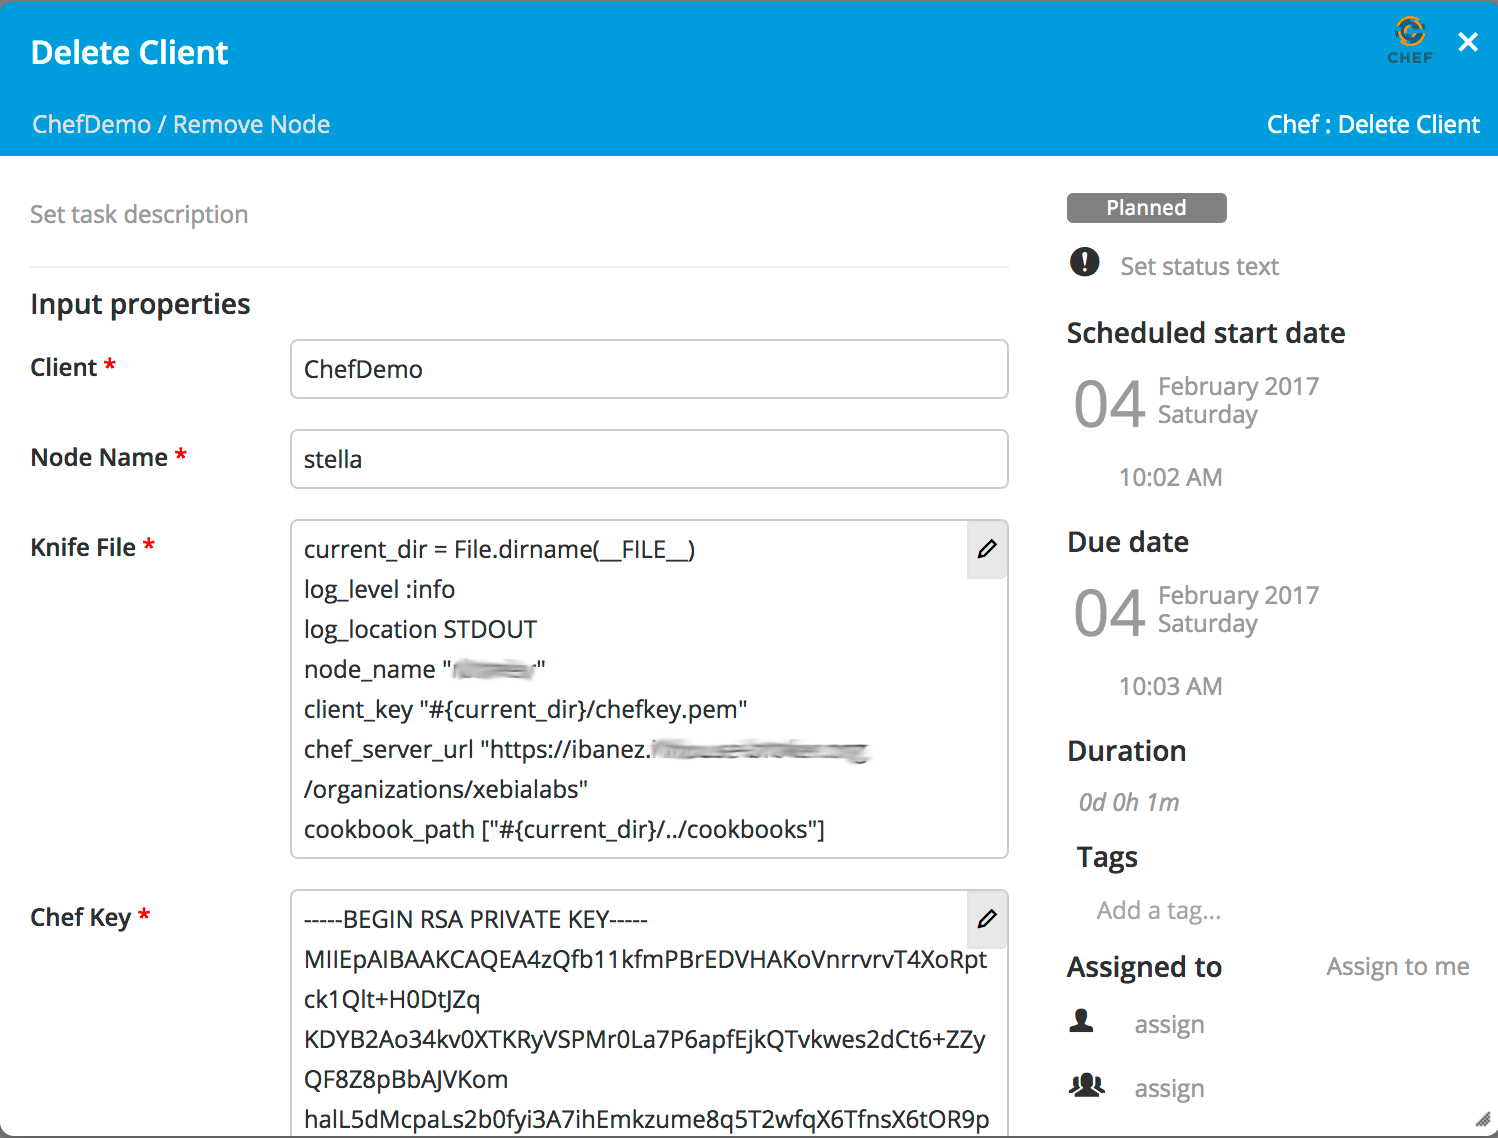
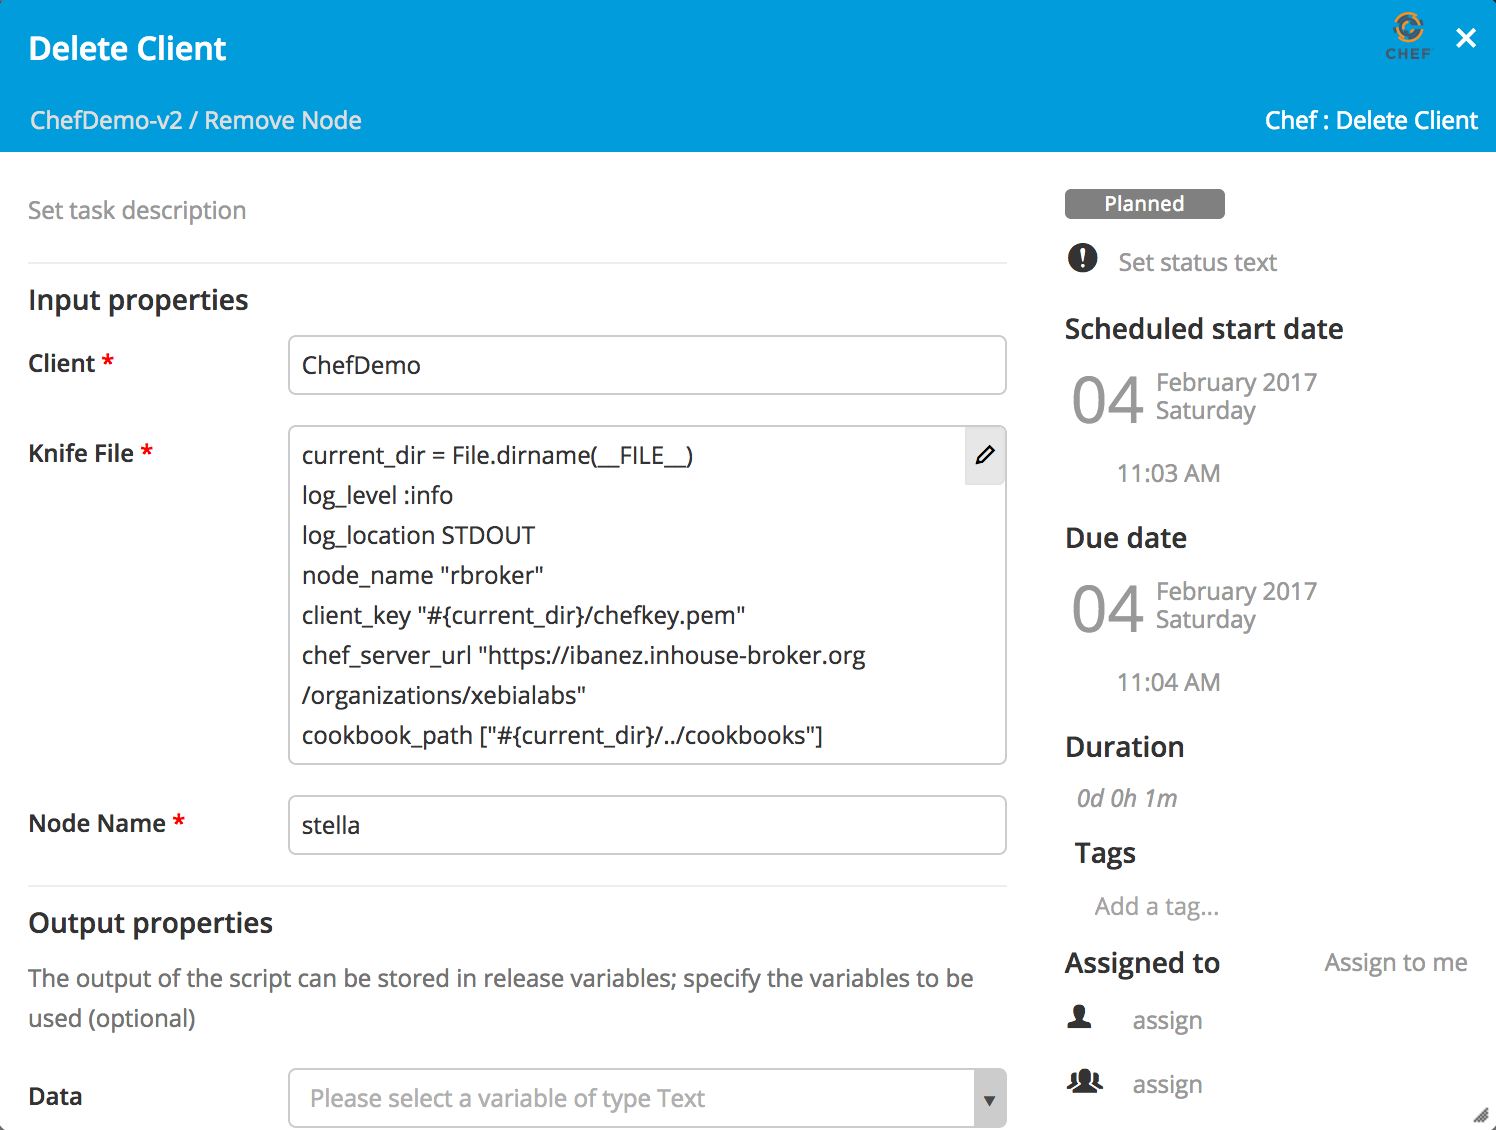
Refactor to encrypt private key in XLR

diff --git a/src/main/resources/chef/ChefClient.py b/src/main/resources/chef/ChefClient.py
@@ -3,6 +3,7 @@
 # IMPLIED, INCLUDING BUT NOT LIMITED TO THE IMPLIED WARRANTIES OF MERCHANTABILITY AND/OR FITNESS
 # FOR A PARTICULAR PURPOSE. THIS CODE AND INFORMATION ARE NOT SUPPORTED BY XEBIALABS.
 #
+import sys, traceback
 import re
 import java.lang.String as String
 from java.io import PrintWriter
@@ -15,6 +16,7 @@ class ChefClient( object ):
    def __init__(self, chefCI ):
       self.cmdLine = CmdLine()
       self.chefPath = chefCI['chefPath']
+      self.chefKey  = self.formatKey( chefCI['chefKey'] )
       if chefCI['os'] :
          self.os = "UNIX"
       else:
@@ -28,14 +30,12 @@ class ChefClient( object ):
       return ChefClient( chefCI )
    # End createDKClient
    #
-   @classmethod
    def knife( self, search, cmd, attribute ):
       print "kife"
       # knife ssh 'role:web' 'sudo chef-client' --ssh-user rbroker --ssh-password 'merlin1' --attribute publicip
    # End knife
    #
-   @classmethod
-   def bootstrapUnix( self, address, nodeName, knifeFile, chefKey, sudo, sudoPassword, sshUser, sshPassword, identity, runList ):
+   def bootstrapUnix( self, address, nodeName, knifeFile, sudo, sudoPassword, sshUser, sshPassword, identity, runList ):
       if sudo :
          sudoParm = "--sudo"
       else:
@@ -46,18 +46,19 @@ class ChefClient( object ):
       else:
          sudoPassParm = ""
       # End if
+      if (type(runList).__name__ <> 'NoneType' and len(runList) > 0):
+         runOpt = "--run-list '%s'" % runList
+      else:
+         runOpt = ""
+      # End if
       connection = None
       try:
-         if (type(runList).__name__ <> 'NoneType' and len(runList) > 0):
-            runOpt = "--run-list '%s'" % runList
-         else:
-            runOpt = ""
-         # End if
          connection = LocalConnection.getLocalConnection()
          scriptFile = connection.getTempFile('chef', '.bat')
          scriptPath = re.sub('chef.bat', '', scriptFile.getPath())
          script="""#!/bin/bash
 cd %s
+tar -czf /tmp/chef.tgz .
 KNIFERB='%s
 '
 CHEFKEY='%s
@@ -65,11 +66,10 @@ CHEFKEY='%s
 mkdir .chef
 echo "$KNIFERB" > .chef/knife.rb
 echo "$CHEFKEY" > .chef/chefkey.pem
-tar -czf /tmp/chef.tgz .
 %s/bin/knife ssl fetch
 %s/bin/knife ssl check
 %s/bin/knife bootstrap %s --ssh-user %s --ssh-password '%s' %s %s --node-name %s %s
-""" % ( scriptPath, knifeFile, chefKey, self.chefPath, self.chefPath, self.chefPath, address, sshUser, sshPassword, sudoParm, sudoPassParm, nodeName, runOpt)
+""" % ( scriptPath, knifeFile, self.chefKey, self.chefPath, self.chefPath, self.chefPath, address, sshUser, sshPassword, sudoParm, sudoPassParm, nodeName, runOpt)
          OverthereUtils.write( String( script ).getBytes(), scriptFile )
          scriptFile.setExecutable(True)
          print "Execute file %s" % ( scriptFile.getPath() )
@@ -79,10 +79,7 @@ tar -czf /tmp/chef.tgz .
          self.printStdErr()
       except Exception, e:
          print "Caught Exception "
-         stacktrace = StringWriter()
-         writer = PrintWriter( stacktrace, True )
-         e.printStackTrace(writer)
-         self.stderr.handleLine(stacktrace.toString())
+         traceback.print_exc(file=sys.stdout)
          return 1
       finally:
          if connection is not None:
@@ -92,14 +89,12 @@ tar -czf /tmp/chef.tgz .
       return exitCode
    # End bootstrapUnix
    #
-   @classmethod
    def bootstrapWindows( self, address, nodeName, runList):
       print "bootstrap Windows"
       # knife bootstrap windows winrm ADDRESS --winrm-user USER --winrm-password 'PASSWORD' --node-name node1-windows --run-list 'recipe[learn_chef_iis]'
    # End bootstrapWindows
 
-   @classmethod
-   def deleteNode( self, knifeFile, chefKey, nodeName ):
+   def deleteNode( self, knifeFile, nodeName ):
       connection = None
       try:
          connection = LocalConnection.getLocalConnection()
@@ -118,7 +113,7 @@ echo "$CHEFKEY" > .chef/chefkey.pem
 %s/bin/knife ssl fetch
 %s/bin/knife ssl check
 %s/bin/knife node delete --yes %s
-""" % ( scriptPath, knifeFile, chefKey, self.chefPath, self.chefPath, self.chefPath, nodeName)
+""" % ( scriptPath, knifeFile, self.chefKey, self.chefPath, self.chefPath, self.chefPath, nodeName)
          OverthereUtils.write( String( script ).getBytes(), scriptFile )
          scriptFile.setExecutable(True)
          print "Execute file %s" % ( scriptFile.getPath() )
@@ -141,8 +136,7 @@ echo "$CHEFKEY" > .chef/chefkey.pem
       return exitCode
    # End def
 
-   @classmethod
-   def deleteClient( self, knifeFile, chefKey, nodeName ):
+   def deleteClient( self, knifeFile, nodeName ):
       connection = None
       try:
          connection = LocalConnection.getLocalConnection()
@@ -161,7 +155,7 @@ echo "$CHEFKEY" > .chef/chefkey.pem
 %s/bin/knife ssl fetch
 %s/bin/knife ssl check
 %s/bin/knife client delete --yes %s
-""" % ( scriptPath, knifeFile, chefKey, self.chefPath, self.chefPath, self.chefPath, nodeName)
+""" % ( scriptPath, knifeFile, self.chefKey, self.chefPath, self.chefPath, self.chefPath, nodeName)
          OverthereUtils.write( String( script ).getBytes(), scriptFile )
          scriptFile.setExecutable(True)
          print "Execute file %s" % ( scriptFile.getPath() )
@@ -185,8 +179,7 @@ echo "$CHEFKEY" > .chef/chefkey.pem
    # End def
 
 
-   @classmethod
-   def getCookbookList( self, knifeFile, chefKey, options ):
+   def getCookbookList( self, knifeFile, options ):
       connection = None
       try:
          if (type(options).__name__ <> 'NoneType' and len(options) > 0):
@@ -210,7 +203,7 @@ echo "$CHEFKEY" > .chef/chefkey.pem
 %s/bin/knife ssl fetch
 %s/bin/knife ssl check
 %s/bin/knife cookbook list %s
-""" % ( scriptPath, knifeFile, chefKey, self.chefPath, self.chefPath, self.chefPath, options)
+""" % ( scriptPath, knifeFile, self.chefKey, self.chefPath, self.chefPath, self.chefPath, options)
          OverthereUtils.write( String( script ).getBytes(), scriptFile )
          scriptFile.setExecutable(True)
          print "Execute file %s" % ( scriptFile.getPath() )
@@ -233,28 +226,34 @@ echo "$CHEFKEY" > .chef/chefkey.pem
       return exitCode
    # End def
 
+   def formatKey(self, key):
+      chefKey=re.sub("---- .*", "----\n", key)
+      foot=re.sub(".* ----", "----", key)
+      body=re.sub(".*--- ", "", key)
+      body=re.sub(" ---.*", "", body)
+      for l in body.split():
+         chefKey = "%s%s\n" % (chefKey, l)
+      # End for
+      chefKey = "%s%s\n" % (chefKey, foot)
+      return chefKey
+   # End formatKey
 
-   @classmethod
    def printData(self, data):
       print data
    # End def
 
-   @classmethod
    def printException(self, e):
       print e
    # End def
 
-   @classmethod
    def getStdout(self):
       return self.stdout.getOutput()
    # End getStdout
 
-   @classmethod
    def getStdoutLines(self):
       return self.stdout.getOutputLines()
    # End getStdoutLines
 
-   @classmethod
    def printStdOut(self):
       print "#===== STD Out ====\n\n"
       tmpData = self.getStdoutLines()
@@ -264,17 +263,14 @@ echo "$CHEFKEY" > .chef/chefkey.pem
       print "#===== STD Out ====\n\n"
    # End printStdOut
 
-   @classmethod
    def getStderr(self):
       return self.stderr.getOutput()
    # End getStderr
 
-   @classmethod
    def getStderrLines(self):
       return self.stderr.getOutputLines()
    # End getStderrLines
 
-   @classmethod
    def printStdErr(self):
       print "#===== STD Err ====\n\n"
       tmpData = self.getStderrLines()
@@ -283,7 +279,6 @@ echo "$CHEFKEY" > .chef/chefkey.pem
       print "#===== STD Err ====\n\n"
    # End printStdOut
 
-   @classmethod
    def getData(self):
       return self.data
    # End getData

diff --git a/src/main/resources/chef/unixBootstrap.py b/src/main/resources/chef/unixBootstrap.py
@@ -3,6 +3,7 @@
 # IMPLIED, INCLUDING BUT NOT LIMITED TO THE IMPLIED WARRANTIES OF MERCHANTABILITY AND/OR FITNESS
 # FOR A PARTICULAR PURPOSE. THIS CODE AND INFORMATION ARE NOT SUPPORTED BY XEBIALABS.
 #
+import sys, traceback
 
 from chef.ChefClient import ChefClient
 
@@ -13,12 +14,10 @@ if chefClient is None:
 chefDXClient = ChefClient.createDXClient(chefClient)
 
 try:
-   errorCode = chefDXClient.bootstrapUnix( address, nodeName, knifeFile, chefKey, sudo, sudoPassword, sshUser, sshPassword, identity, runList )
+   errorCode = chefDXClient.bootstrapUnix( address, nodeName, knifeFile, sudo, sudoPassword, sshUser, sshPassword, identity, runList )
    data = chefDXClient.getData()
 except Exception, e:
-   exc_info = sys.exc_info()
-   traceback.printException( *exc_info )
-   print e
+   traceback.print_exc(file=sys.stdout)
    print chefDXClient.print_error( e )
    print "Failed to bootstrap %s" % (nodeName)
    sys.exit(1)

diff --git a/src/main/resources/chef/getCookbookList.py b/src/main/resources/chef/getCookbookList.py
@@ -13,7 +13,7 @@ if chefClient is None:
 chefDXClient = ChefClient.createDXClient(chefClient)
 
 try:
-   errorCode = chefDXClient.getCookbookList(knifeFile, chefKey, options)
+   errorCode = chefDXClient.getCookbookList(knifeFile, options)
    data = chefDXClient.getData()
 except Exception, e:
    exc_info = sys.exc_info()

diff --git a/src/main/resources/chef/deleteClient.py b/src/main/resources/chef/deleteClient.py
@@ -13,7 +13,7 @@ if chefClient is None:
 chefDXClient = ChefClient.createDXClient(chefClient)
 
 try:
-   errorCode = chefDXClient.deleteClient(knifeFile, chefKey, nodeName )
+   errorCode = chefDXClient.deleteClient(knifeFile, nodeName )
    data = chefDXClient.getData()
 except Exception, e:
    exc_info = sys.exc_info()

diff --git a/src/main/resources/chef/deleteNode.py b/src/main/resources/chef/deleteNode.py
@@ -13,7 +13,7 @@ if chefClient is None:
 chefDXClient = ChefClient.createDXClient(chefClient)
 
 try:
-   errorCode = chefDXClient.deleteNode(knifeFile, chefKey, nodeName )
+   errorCode = chefDXClient.deleteNode(knifeFile, nodeName )
    data = chefDXClient.getData()
 except Exception, e:
    exc_info = sys.exc_info()

diff --git a/README.md b/README.md
@@ -2,6 +2,7 @@
 
 [![Build Status](https://travis-ci.org/xebialabs-community/xlr-chef-plugin.svg?branch=master)](https://travis-ci.org/xebialabs-community/xlr-chef-plugin)
 [![Codacy Badge](https://api.codacy.com/project/badge/Grade/09848434df324f96afd8517e05f4b0c1)](https://www.codacy.com/app/zvercodebender/xlr-chef-plugin?utm_source=github.com&amp;utm_medium=referral&amp;utm_content=xebialabs-community/xlr-chef-plugin&amp;utm_campaign=Badge_Grade)
+[![Code Climate](https://codeclimate.com/github/xebialabs-community/xlr-chef-plugin/badges/gpa.svg)](https://codeclimate.com/github/xebialabs-community/xlr-chef-plugin)
 
 ## Preface
 This document describes the functionality provide by the `xlr-chef-plugin`
@@ -11,6 +12,11 @@ This module offers tasks to apply Chef cookbooks on a remote hosts.
 
 ## Installation
 Copy the plugin JAR file into the `SERVER_HOME/plugins` directory of XL Release.
+
+## Chef CI
+The Chef plugin can connect to multiple Chef servers or connect to the same server with different shared credentials.  The Configuration Item for a Chef server screen looks like the following:
+
+![ChefSharedConfigurationItem](images/ChefSharedConfigurationItem.png)
 
 
 ## Chef Tasks
